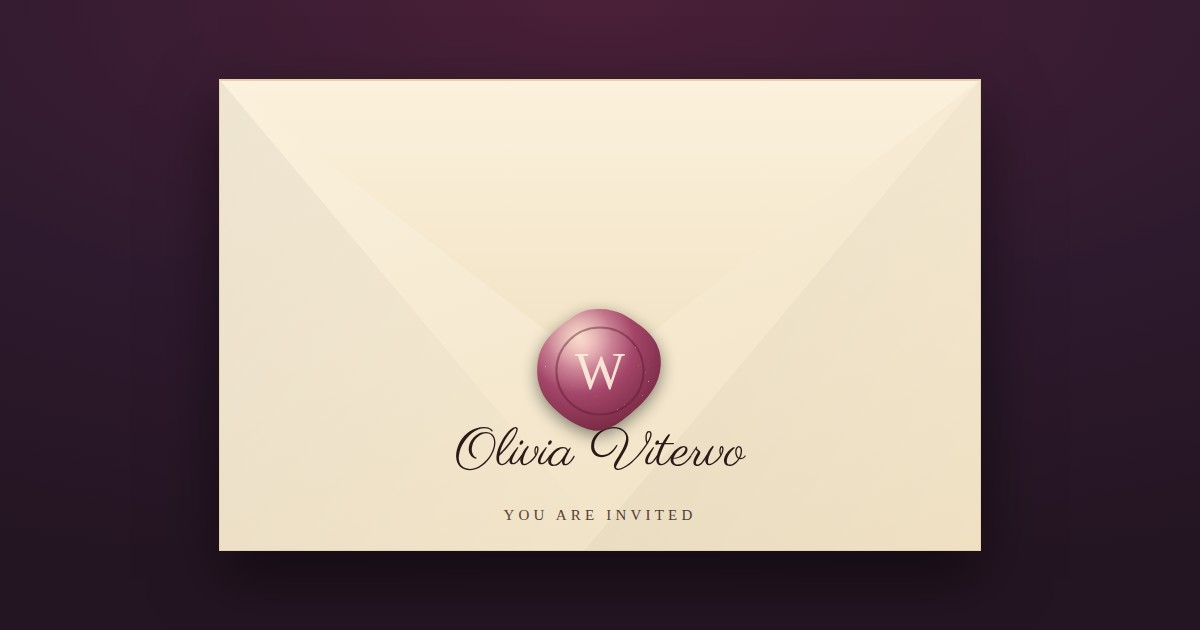
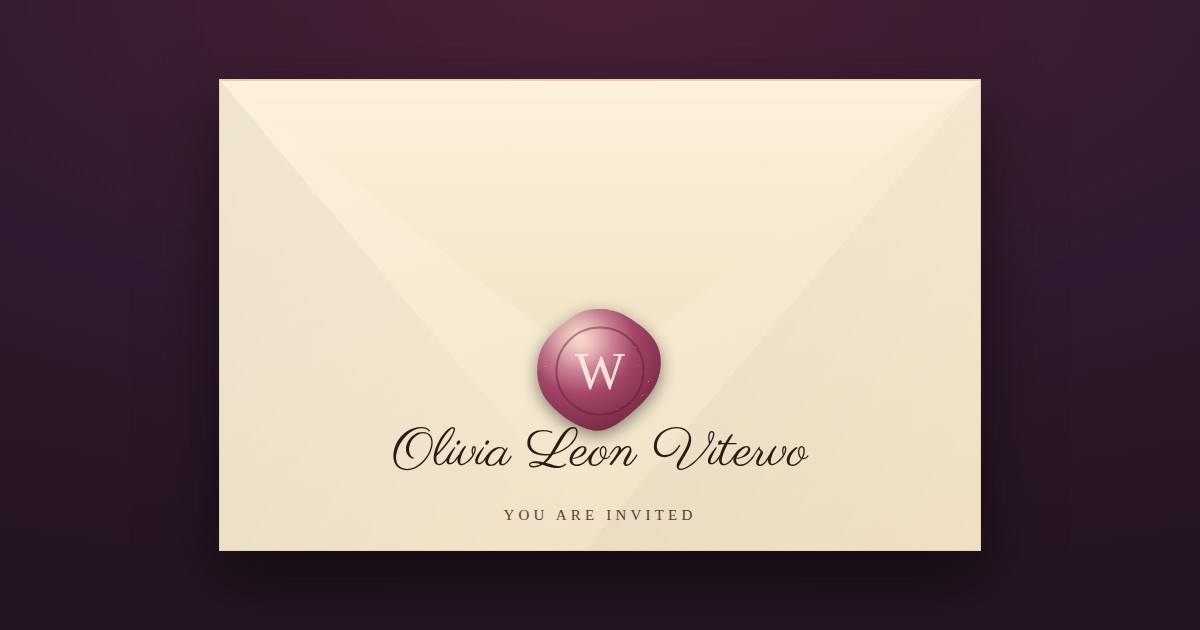
Olivia Leon Vitervo, Yamilet Macias, and Shaun with a U
Applied on the branch the live service actually deploys. The same three
names were fixed on main earlier, but nothing deploys main, so the site
never saw them.

Linda and Shaun already share one invitation here, so the spelling is
fixed on the envelope and in the members list, and Linda's note goes in
her `ask`. Words written for an invitation now show even when the
household has no standing at the wedding — until now the card rendered
`ask` only for a role, so a note on an ordinary invitation was read from
the list and then silently dropped.

Share cards for the three renamed households re-rendered; `cards:check`
is clean and the smoke suite passes.

Claude-Session: https://claude.ai/code/session_019j1gnnKAkiNuhvSJorzwuc

Changed region(s): [[0.3083, 0.6635, 0.6783, 0.754]]

diff --git a/site/invite.html b/site/invite.html
@@ -555,6 +555,14 @@
     };
     var ask = document.getElementById("ask");
     var role = ROLES[g.role];
+    // *stars* mark emphasis; everything else is escaped, so the text stays
+    // plain data.
+    var writeAsk = function (words) {
+      ask.innerHTML = words
+        .replace(/[&<>]/g, function (c) { return { "&": "&amp;", "<": "&lt;", ">": "&gt;" }[c]; })
+        .replace(/\*([^*]+)\*/g, "<em>$1</em>");
+      ask.hidden = false;
+    };
     var wax = document.getElementById("seal-wax");
     var ring = document.getElementById("seal-ring");
     var mono = document.getElementById("seal-mono");
@@ -566,13 +574,8 @@
       // Light wax needs a dark W; every other seal keeps the cream one.
       if (mono) mono.setAttribute("fill", role.mono || "#FBEDDC");
       // Address them by the first name on the invitation.
-      // Words written for this guest win over the role's default. *stars* mark
-      // emphasis; everything else is escaped, so the text stays plain data.
-      var words = g.ask || role.ask((named[0] || g.name).split(/[\s,&]/)[0]);
-      ask.innerHTML = words
-        .replace(/[&<>]/g, function (c) { return { "&": "&amp;", "<": "&lt;", ">": "&gt;" }[c]; })
-        .replace(/\*([^*]+)\*/g, "<em>$1</em>");
-      ask.hidden = false;
+      // Words written for this guest win over the role's default.
+      writeAsk(g.ask || role.ask((named[0] || g.name).split(/[\s,&]/)[0]));
       cardEl.classList.add("role-" + role.tone);
       waxShades = role.shades;
       // Every standing gets the sheen and the mica — only the ordinary red
@@ -585,7 +588,9 @@
       if (wax) wax.setAttribute("fill", "url(#wax)");
       if (ring) ring.setAttribute("stroke", "#5B1409");
       if (mono) mono.setAttribute("fill", "#FBEDDC");
-      ask.hidden = true;
+      // No standing at the wedding, but words can still be written for an
+      // invitation on its own — a note keeps the plain red wax.
+      if (g.ask) writeAsk(g.ask); else ask.hidden = true;
       var plain = document.getElementById("seal-shine");
       if (plain) plain.setAttribute("hidden", "");
       document.getElementById("sparkles").innerHTML = "";
